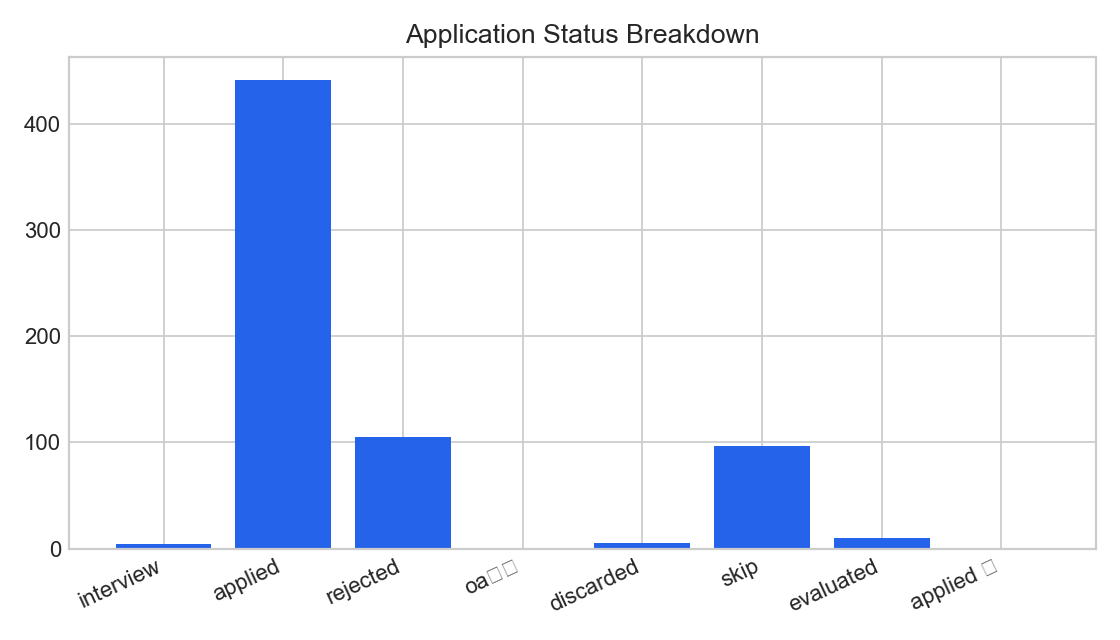
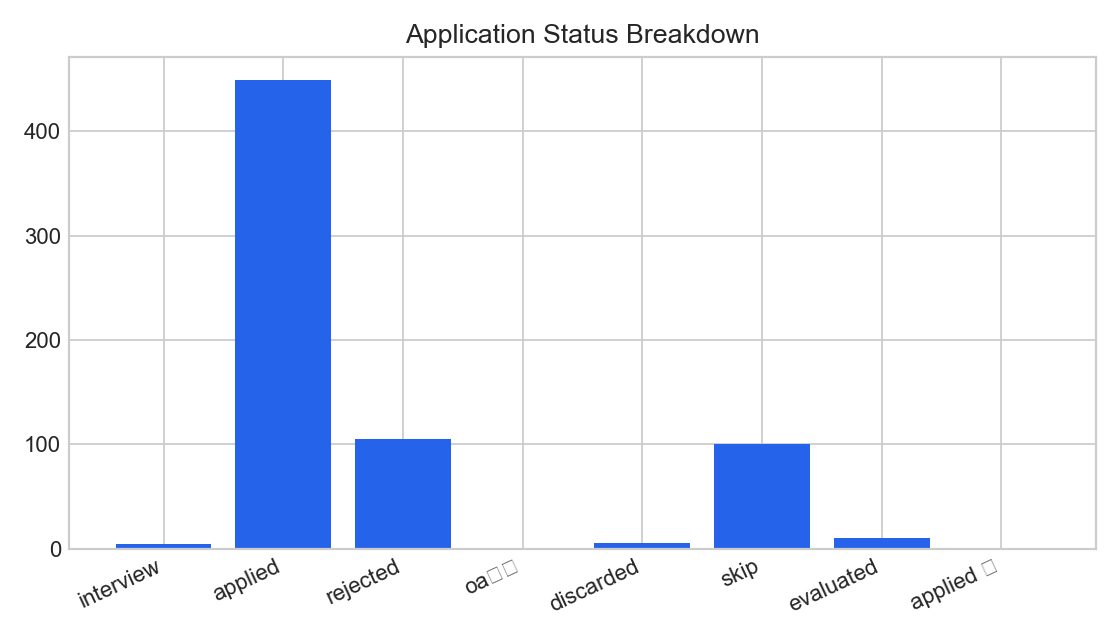
Refresh analytics for 826 merged roles (2026-08-02)

diff --git a/data/daily_summary.md b/data/daily_summary.md
@@ -1,6 +1,6 @@
 # Daily Job Search Summary
 
-_Last refreshed: 2026-08-01T22:58:32-07:00_
+_Last refreshed: 2026-08-02T23:25:46-07:00_
 
 ## Positioning
 
@@ -10,8 +10,8 @@ _Last refreshed: 2026-08-01T22:58:32-07:00_
 
 ## Snapshot
 
-- Tracked roles: 815
-- Active roles: 455
+- Tracked roles: 826
+- Active roles: 463
 - Response rate: 0.7%
 - LinkedIn outreach sent: 28
 - Pending pipeline items: 155
@@ -20,27 +20,27 @@ _Last refreshed: 2026-08-01T22:58:32-07:00_
 
 ## Status Breakdown
 
-- applied: 441
+- applied: 449
 - applied ✅: 1
 - discarded: 5
 - evaluated: 10
 - interview: 4
 - oa完成: 1
 - rejected: 105
-- skip: 97
+- skip: 100
 
 ## Recent Activity
 
-- 2026-08-01: Nexxen | Analyst, Discovery | applied
-- 2026-08-01: Curinos | Data Analyst, Technical Success | applied
-- 2026-08-01: Gas South | Operations Analyst | applied
-- 2026-08-01: Maverick Quantum | Business Analyst - Entry Level | applied
-- 2026-08-01: Great American | Data Reporting Analyst - Financial Institution Services | applied
-- 2026-08-01: Kinetik | Financial Systems & Analytics Analyst | applied
-- 2026-08-01: Lumber | Junior Product Analyst (FinTech & Platform) | applied
-- 2026-08-01: Boston Children’s Hospital | Healthcare Data Analyst I | applied
-- 2026-08-01: NYU Langone | Data Analyst, Center of Surgical and Transplant Applied Research (CSTAR) | applied
-- 2026-08-01: Zynga | Data Analyst | applied
+- 2026-08-02: Petco | Analyst, Business Intelligence - Stores | applied
+- 2026-08-02: PWX Solutions | Junior Data Analyst | applied
+- 2026-08-02: Mayo Clinic | Associate Data Science Analyst | applied
+- 2026-08-02: Turner & Townsend | Digital Construction Project Analyst – Graduate Development Program | applied
+- 2026-08-02: Defender Association | Data Analyst | applied
+- 2026-08-02: PWX Solutions (a PubWorX Company) | Junior Data Analyst | applied
+- 2026-08-02: Mayo Clinic | Associate Data Science Analyst - AI & Informatics | applied
+- 2026-08-02: The Defender Association of Philadelphia | Data Analyst - Police Accountability Unit | applied
+- 2026-08-02: SRS Acquiom | Data Imports Analyst | skip
+- 2026-08-02: City of Roseville (CA) | Database Analyst I/II | skip
 
 ## Recommended Opportunity Queue
 
@@ -62,13 +62,13 @@ _Last refreshed: 2026-08-01T22:58:32-07:00_
 
 ## Needs Attention
 
-- Microsoft | Applied Scientist: Microsoft AI Development Acceleration Program | 142 days with no response
-- Nvidia | Deep Learning Architect, LLM Inference - New College Grad 2026 | 142 days with no response
-- Google | Software Engineer II, Early Career | 138 days with no response
-- Apple | AIML - Machine Learning Research | 131 days with no response
-- Amazon | Data Engineer II | 129 days with no response
-- Amazon | Software Development Engineer – Amazon Leo (US) | 129 days with no response
-- Amazon | Software Development Engineer - 2026 (US) | 129 days with no response
-- Amazon | 软件开发工程师, (New graduate or Entry-level Engineer, 0-2 Years) | 129 days with no response
-- Esri | Product Test Engineer II - Feature Server | 129 days with no response
-- Esri | Product Engineer II - ArcGIS Enterprise Sharing API | 129 days with no response
+- Microsoft | Applied Scientist: Microsoft AI Development Acceleration Program | 143 days with no response
+- Nvidia | Deep Learning Architect, LLM Inference - New College Grad 2026 | 143 days with no response
+- Google | Software Engineer II, Early Career | 139 days with no response
+- Apple | AIML - Machine Learning Research | 132 days with no response
+- Amazon | Data Engineer II | 130 days with no response
+- Amazon | Software Development Engineer – Amazon Leo (US) | 130 days with no response
+- Amazon | Software Development Engineer - 2026 (US) | 130 days with no response
+- Amazon | 软件开发工程师, (New graduate or Entry-level Engineer, 0-2 Years) | 130 days with no response
+- Esri | Product Test Engineer II - Feature Server | 130 days with no response
+- Esri | Product Engineer II - ArcGIS Enterprise Sharing API | 130 days with no response
